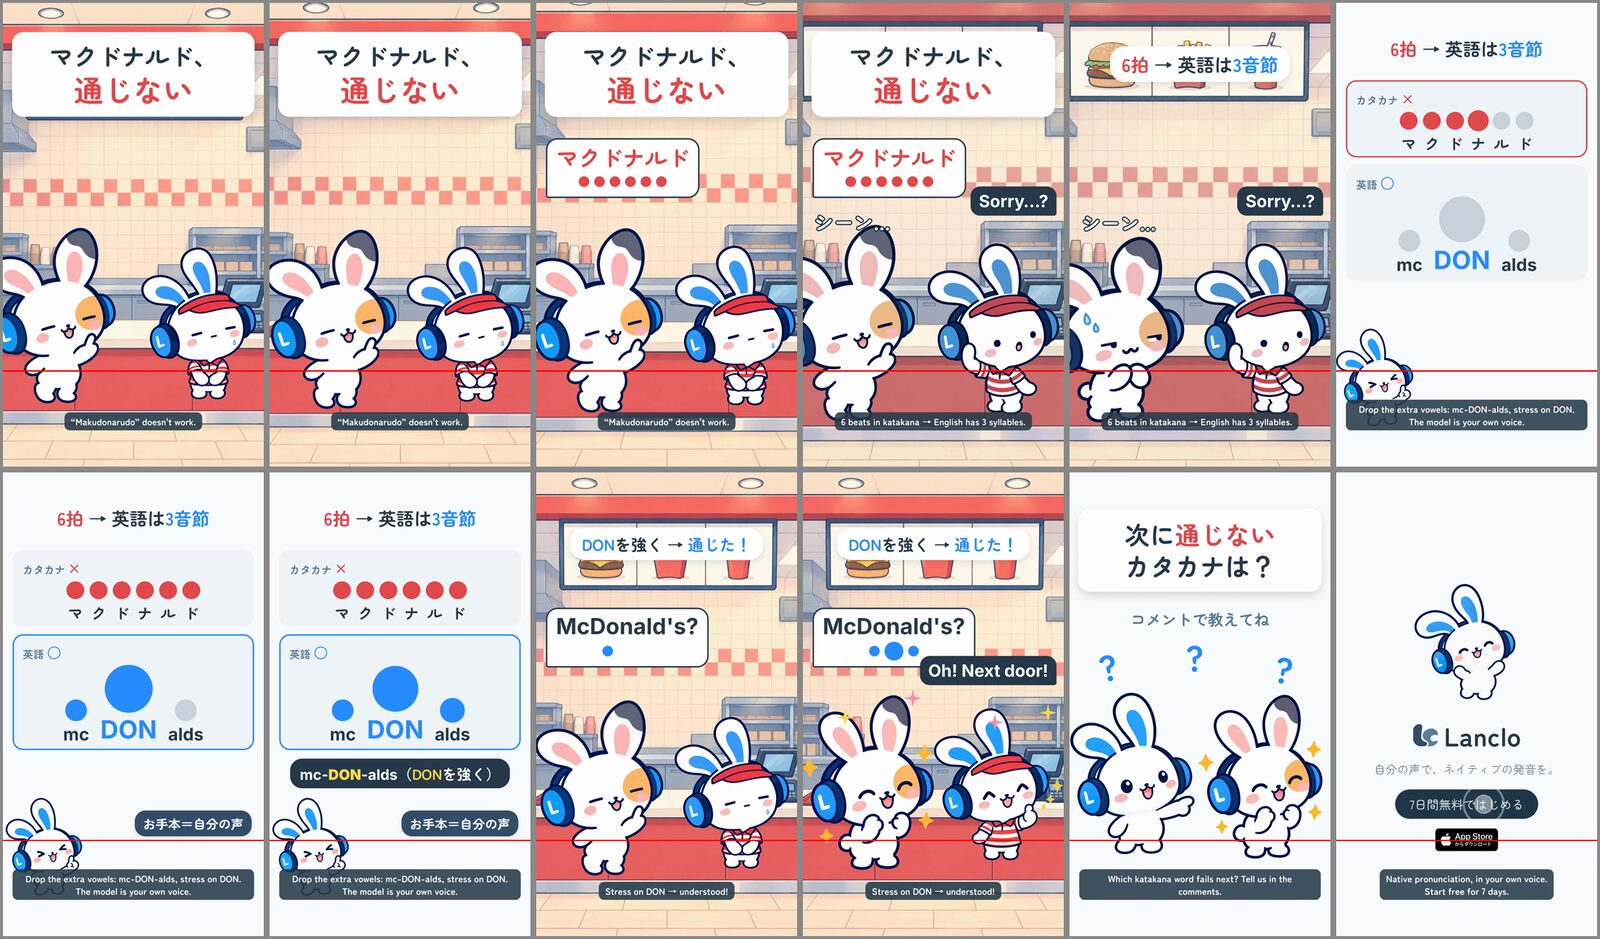
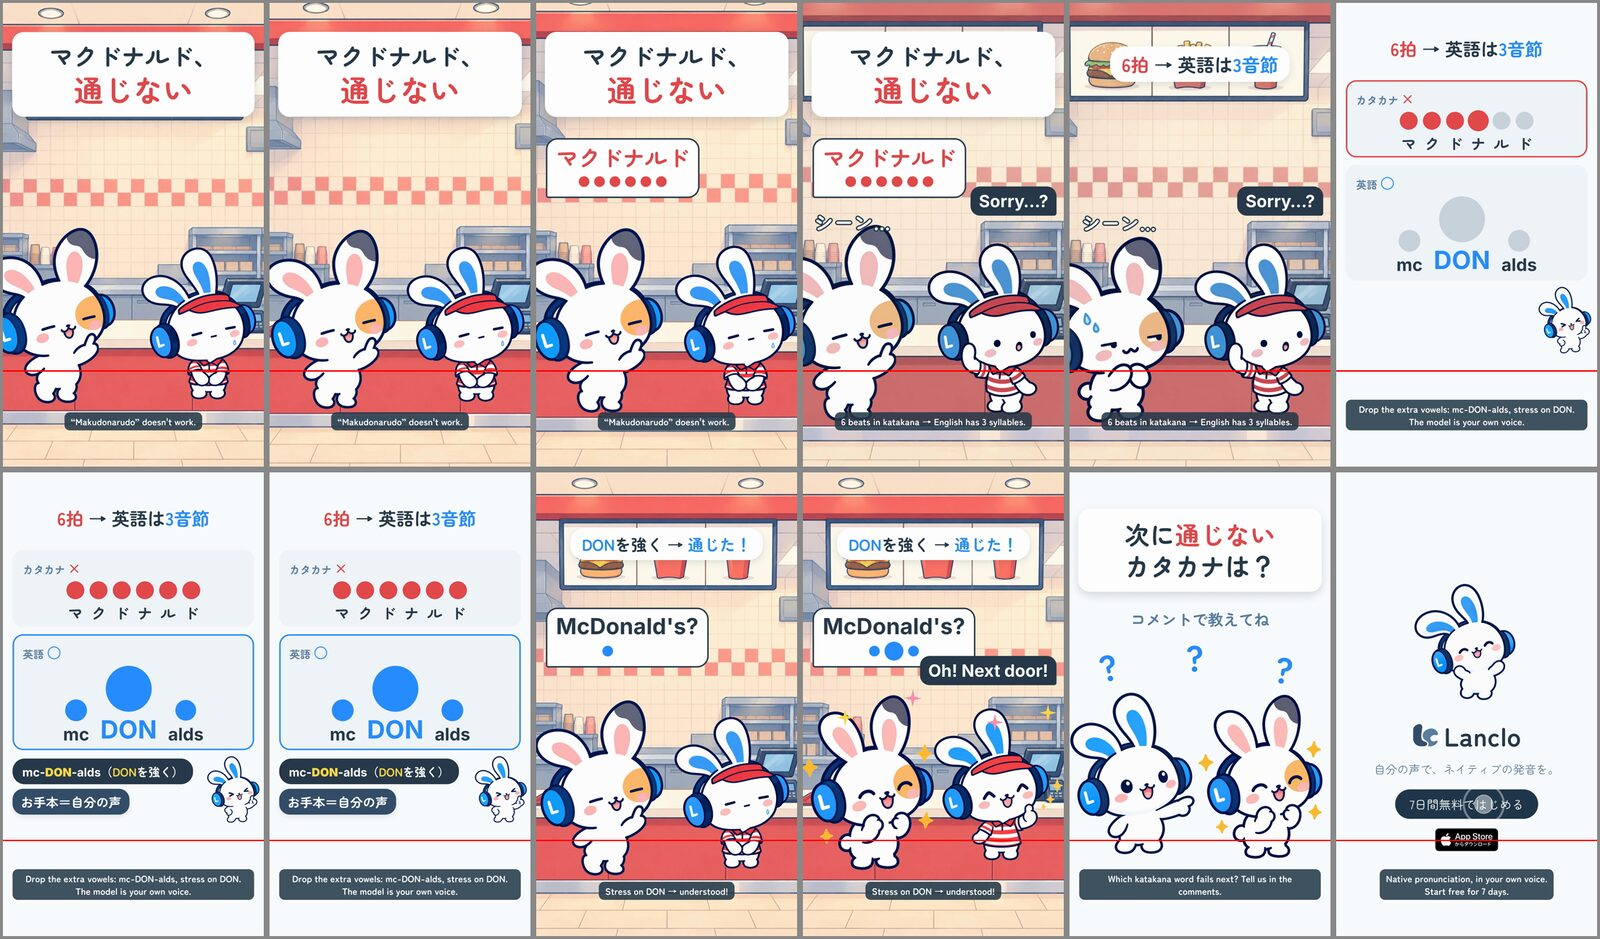
058 Katakana Traps 1: loudness to -14 LUFS, explain-card Mimi out of the bottom zone

diff --git a/films/mimi-katakana-mcdonalds/source/hf/index.html b/films/mimi-katakana-mcdonalds/source/hf/index.html
@@ -62,12 +62,12 @@
       #row-ok .dots i.on { background: #2a8dff; }
       #row-ok .dots span { font-family: "Helvetica Neue", Arial, sans-serif; font-size: 72px; }
       #row-ok .dots span.big { font-size: 104px; color: #2a8dff; }
-      #c-tip { position: absolute; left: 40px; right: 40px; top: 1185px; text-align: center; }
-      #c-tip > span { display: inline-block; background: #273b4b; color: #ffffff; font-size: 60px; white-space: nowrap; font-weight: 700; padding: 18px 40px; border-radius: 50px; }
+      #c-tip { position: absolute; left: 40px; top: 1185px; transform-origin: 0% 50%; }
+      #c-tip > span { display: inline-block; background: #273b4b; color: #ffffff; font-size: 48px; white-space: nowrap; font-weight: 700; padding: 18px 40px; border-radius: 50px; }
       #c-tip .en { font-family: "Helvetica Neue", Arial, sans-serif; }
       #c-tip b { color: #ffd84a; }
-      #c-mimi { position: absolute; left: 20px; top: 1290px; width: 290px; height: auto; transform-origin: 50% 100%; }
-      #c-who { position: absolute; right: 50px; top: 1380px; }
+      #c-mimi { position: absolute; left: 845px; top: 1170px; width: 225px; height: auto; transform-origin: 50% 100%; }
+      #c-who { position: absolute; left: 40px; right: auto; top: 1310px; justify-content: flex-start; }
       /* CTA: the comment question, before the end card */
       #cta { position: absolute; inset: 0; background: #fbfcfd; }
       #cta-q { position: absolute; left: 36px; right: 36px; top: 150px; background: #ffffff; border-radius: 48px; padding: 40px 30px 44px;

diff --git a/films/mimi-katakana-mcdonalds/source/scripts/mix.py b/films/mimi-katakana-mcdonalds/source/scripts/mix.py
@@ -60,4 +60,25 @@ tt = np.arange(m.n) / SR
 m.m *= np.interp(tt, [0, SORRY, SORRY + 0.05, EXPLAIN - 0.1, EXPLAIN + 0.2, END], [1, 1, 0.25, 0.25, 1, 1])
 m.end_chord(E)
 m.sfx(pochi(), C['TAP'])
-print(m.write(SRC / 'hf/assets/mix.wav'))
+out = m.write(SRC / 'hf/assets/mix.wav')
+# loudnorm's single pass stops short of -14 on a short, voice-sparse film (true peak bound): measure, add the missing gain
+# in front of a -1.5 dBTP limiter, and measure again. The balance between voice, SFX and bed is unchanged.
+import json as _j, re, shutil, subprocess  # noqa: E402
+
+
+def lufs(f):
+    err = subprocess.run(['ffmpeg', '-hide_banner', '-nostats', '-i', str(f), '-af', 'loudnorm=print_format=json', '-f', 'null', '-'],
+                         capture_output=True, text=True).stderr
+    d = _j.loads(re.search(r'\{[^{}]*\}', err[err.rfind('Parsed_loudnorm'):]).group(0))
+    return float(d['input_i']), float(d['input_tp'])
+
+
+for _ in range(3):
+    i, tp = lufs(out)
+    if abs(i + 14) < 0.3:
+        break
+    tmp = out.with_suffix('.tmp.wav')
+    subprocess.run(['ffmpeg', '-v', 'error', '-y', '-i', str(out), '-af',
+                    f'volume={-14 - i + 0.1:.2f}dB,alimiter=limit=0.84:level=false:attack=1:release=60', '-ar', str(SR), str(tmp)], check=True)
+    shutil.move(tmp, out)
+print(out, 'I=%.1f LUFS TP=%.1f dBTP' % lufs(out))

diff --git a/films/mimi-katakana-mcdonalds/PROCESS.md b/films/mimi-katakana-mcdonalds/PROCESS.md
@@ -21,8 +21,13 @@
    - Learner: speech 0.27–0.96 s; six band-energy (300–2500 Hz) peaks at 0.32, 0.50, 0.58, 0.71, 0.82, 0.88 s, all within 4.2 dB of each other (even, no stressed syllable); voiced almost throughout (0.33–0.42, 0.49–0.54, 0.56–0.86, 0.89–0.96) and it ends on a voiced vowel with formants (the final “do”), i.e. vowels after the consonants: 6 beats.
    - Model: speech 0.28–1.13 s; a stop closure (silence 0.48–0.54) between “mc” and “DON”; “DON” is the longest (≈0.29 s) and loudest nucleus (peak at 0.59 s, “mc” −3.4 dB, “alds” −9.3 dB); the word ends in unvoiced frication (0.97–1.13, “dz”) with no vowel after it: 3 syllables, stress on DON.
    The measured beats drive the dot meters (`LEARNER_BEATS`, `MODEL_BEATS` in `cues.json`). Needs a human listen.
-5. Sound (`scripts/mix.py`, kit Mix): a soft sine tick per beat (no bell), boing on “Sorry…?”, the bed drops to 25 % from “Sorry…?” until the card and comes back; the model take plays twice on the card and once more when the Friend says it right (the Friend is voiced by the owner). Voice 10–16 dB over the bed; peaks −1.5 dBFS. Integrated loudness of the render is −17.2 LUFS (kit loudnorm with TP −1.5 on a short, voice-sparse film; 053 measured −15.0). Left as is: quieter is the safe side on earphones.
-6. Checked with `hyperframes check` (layout overflows on the card fixed) and a contact sheet ([process/00-draft-frames.jpg](process/00-draft-frames.jpg)): captions top, faces clear, the explain-card Mimi moved up so the English subtitle does not cover her.
+5. Sound (`scripts/mix.py`, kit Mix): a soft sine tick per beat (no bell), boing on “Sorry…?”, the bed drops to 25 % from “Sorry…?” until the card and comes back; the model take plays twice on the card and once more when the Friend says it right (the Friend is voiced by the owner). Voice 10–16 dB over the bed; peaks −1.5 dBFS. The kit's single-pass loudnorm (TP −1.5) left this short, voice-sparse film at −17.2 LUFS in v1; v2 measures the written mix and adds the missing gain in front of a −1.5 dBTP limiter (end of `scripts/mix.py`), the balance between voice, SFX and bed unchanged: mix −14.3 LUFS / −1.4 dBTP, rendered cuts −13.8 LUFS, peak −1.2 dBFS.
+6. Checked with `hyperframes check` (layout overflows on the card fixed) and a contact sheet ([process/00-draft-frames.jpg](process/00-draft-frames.jpg)): captions top, faces clear, the explain-card Mimi sits beside the tip, right of the 英語○ card, above the bottom 400 px (v2).
+
+## Commander review (2026-10-23, v2)
+
+- Loudness to −14 LUFS via the mix (series consistency), voice on top, true peak ≤ −1 dBTP: done as above.
+- Explain card: Mimi moved out of the bottom ~400 px (now 1170–1460 px, beside the tip; the tip and お手本 tag are left-aligned). v1 drafts moved to Drive `old/` (`*_v1.mp4`).
 
 ## Uncertain / for review
 
